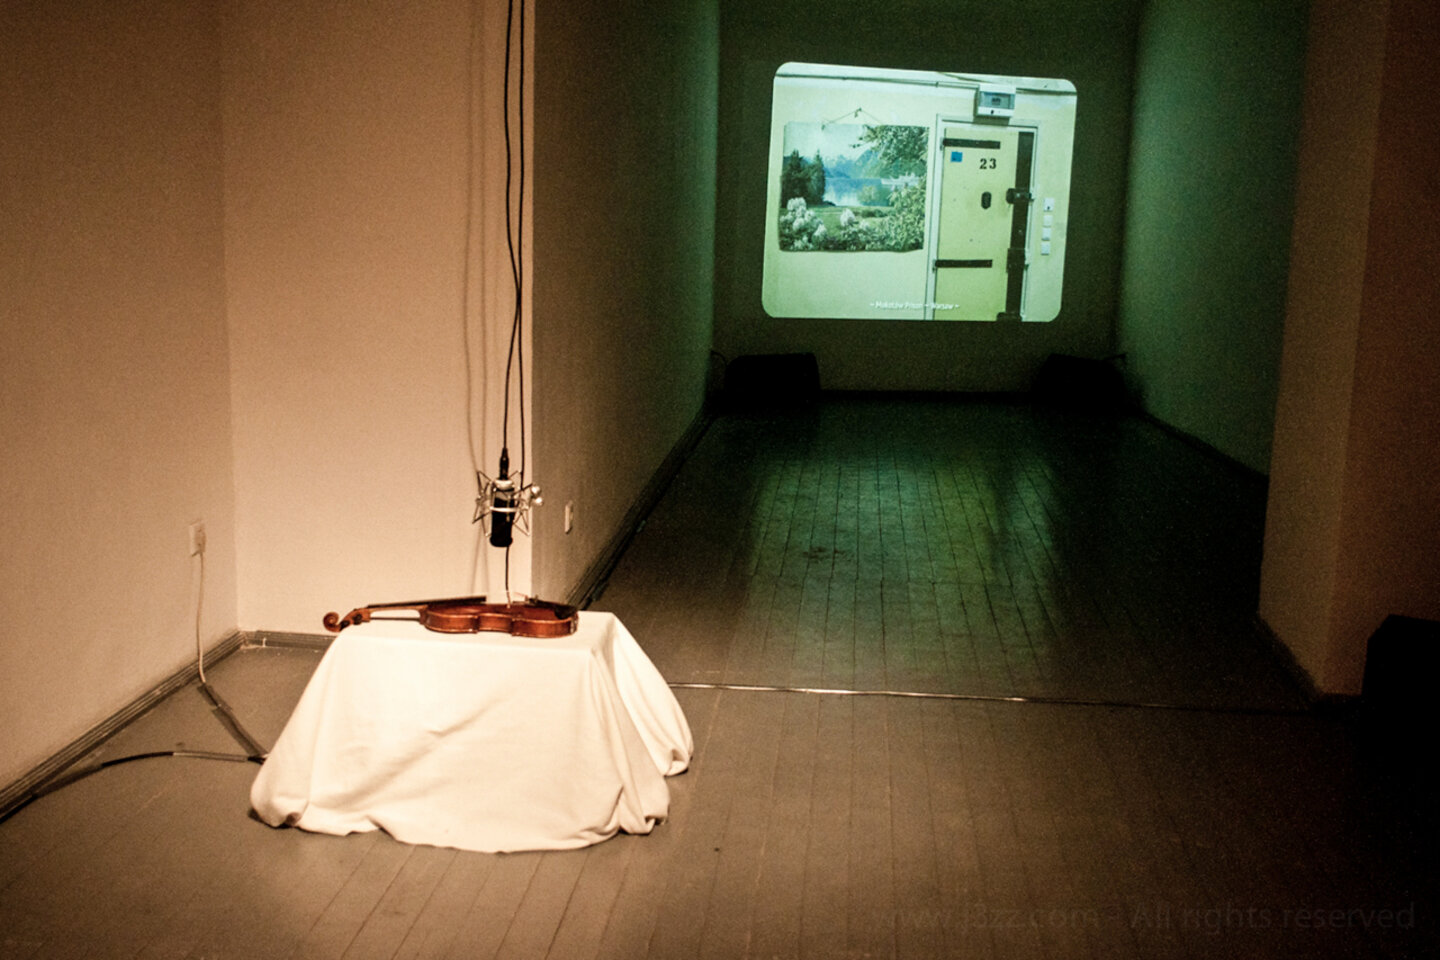
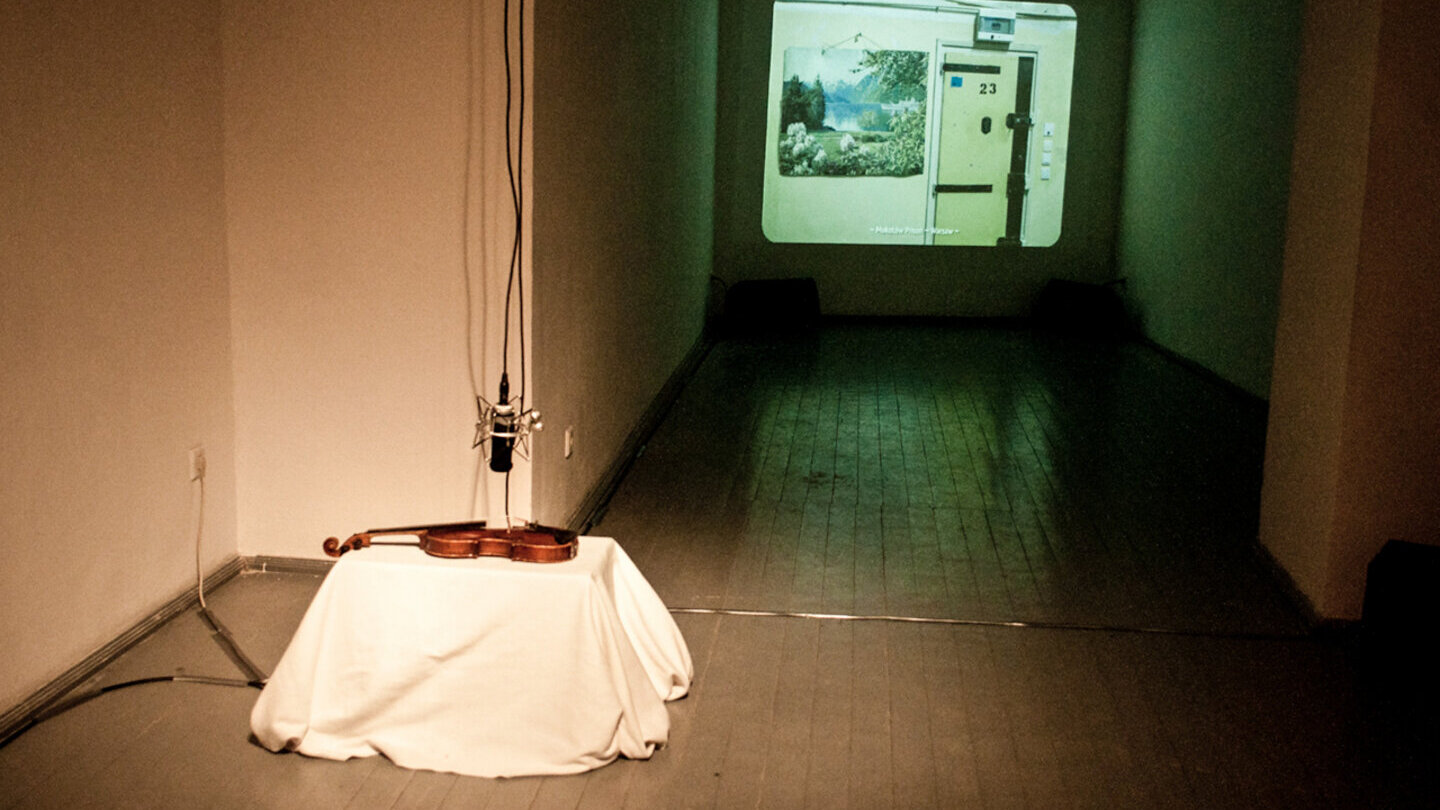
update park in progress inst work

diff --git a/_portfolio/2014-09-29-inst-park-in-progress.md b/_portfolio/2014-09-29-inst-park-in-progress.md
@@ -6,9 +6,9 @@ title: "PARK IN PROGRESS"
 work_id: park-in-progress
 hero_image: true
 abstract: |
-  A harmony of body and sound in the heart of Nicosia.
+  A multichannel spatial audio installation merging 16 speakers with live circus performance in Nicosia's Municipal Gardens.
 description: |
-  For this project, the artist created an outdoor spatial audio installation featuring 16 speakers following a residency period. During the residency, J3ZZ "established a catalogue of sounds produced by human body, creating a vocabulary of sounds." The installation functioned as "a place where the imaginary vision of the performer meet Nicosia's reality." A circus performer and her dog participated in the opening performance alongside the artist.
+  For this project, the artist created an immersive outdoor spatial audio installation featuring 16 speakers positioned throughout the Municipal Gardens. During a residency period in Nicosia, J3ZZ developed a unique sound vocabulary by recording and capturing sounds produced exclusively by the human body. The 16-speaker installation, processed through Ableton Live, became the sonic backdrop for a groundbreaking performance merging circus arts and sound art. Trapeze artist Audrey Louwet from Compagnie Azeïn performed with her dog Eran, creating a visceral dialogue between aerial movement, sound, and the urban landscape at the edge of Nicosia's UN buffer zone.
 category: installations
 commissioned: false
 image: /assets/works/2014-09-29-inst-park-in-progress/thumbnail.jpg
@@ -82,24 +82,30 @@ sections:
 
   - type: description
 
+  - type: hero-image
+    image: /assets/works/2014-09-29-inst-park-in-progress/park-in-progress-gallery13_800w.jpg
 
   - type: text
     title: ""
     content: |
       September 29 - October 5, 2014, Nicosia, Cyprus
-      Within the historically rich setting of the UN buffer zone in Nicosia, Cyprus, "Park in Progress" emerged as a celebration of the fusion between bodily movement and the sound universe. In 2014, this unique artistic event saw the collaboration between J3ZZ, an innovative musician residing in Budapest, and Audrey Louwet, a trapeze artist from the Azeïn company, creating an unforgettable circus and musical experience within an immersive multichannel audio installation.
 
-      Conceived after an artistic residency focused on capturing a catalog of sounds produced exclusively by the human body, this installation established a unique sound vocabulary, serving as the backdrop for a performance that defies conventions. The recordings, meticulously assembled to create a captivating soundtrack, formed the foundation for a bold exploration of bodily and sonic expression, where every movement and note played resonated with the intimate and collective spaces of our being.
+      **Park in Progress** is a nomadic mobility program initiated by the Pépinières Européennes pour Jeunes Artistes, supported by the European Commission's Culture programme. The program brings together young artists and cultural professionals working collaboratively across transdisciplinary practice — bringing circus, performance, music, visual art, and technology into dialogue. The 11th edition took place in Nicosia during the "Nuit Européenne de la Jeune Création" (European Night of Young Creation).
 
-      Audrey Louwet's performance, accompanied by the mesmerizing music of J3ZZ, transformed the outdoor space of Nicosia into a living theater, where the reality of the city blended with the artists' imagination. This collaboration not only highlighted the fluidity and grace of the trapeze artist but also revealed the evocative power of the sounds generated by our bodies, offering the audience a total immersion into a world where sound art and movement converge.
+      Within the historically rich setting of the Municipal Gardens, near Nicosia's UN buffer zone, this unique artistic intervention emerged as a celebration of the fusion between bodily movement and the spatial sound universe. The collaboration between J3ZZ (sound artist, composer) and Audrey Louwet (trapeze artist, Compagnie Azeïn) created an unforgettable evening where circus arts and immersive audio met in unprecedented ways.
 
-      "Park in Progress," realized as part of the 11th edition in collaboration with the European Pépinières for Young Artists, embodied the spirit of discovery and innovation. This initiative not only enriched the cultural landscape of Nicosia but also posed pertinent questions about our interaction with the urban environment, the ability of art to transform ordinary spaces into places of creativity and exchange, and the role of the audience in the activation and reception of the artwork.
+      The 16-speaker spatial audio installation was conceived following an intensive residency period during which J3ZZ recorded and developed a vocabulary of sounds produced exclusively by the human body — breath, movement, heartbeat, and physical effort transformed into a nuanced sonic palette. These recordings, meticulously processed through Ableton Live, formed the foundation of the installation: speakers positioned throughout the gardens created an immersive soundscape that responded to and accompanied the performance.
 
-      Through its multidisciplinary approach and successful collaboration, "Park in Progress" left an indelible mark on the public and the international art scene, proving once again that the union of artistic disciplines can open new horizons of expression and perception.
+      Audrey Louwet's aerial performance, executed with her dog Eran, transformed the outdoor space into a living theater. The trapeze artist's movements through space — suspended, dynamic, graceful — engaged in direct sonic dialogue with J3ZZ's body-derived soundscape. This was not accompaniment, but rather a mutual conversation: the body in motion generating sound, the sound shaping perception of movement. The audience experienced not a performance watched from a distance, but an immersive environment in which sound, movement, and place merged.
+
+      This collaboration exemplified Park in Progress's core mission: to demonstrate that transdisciplinary artistic approaches open new horizons of expression and perception. By bringing together circus acrobatics, electronic music, spatial audio design, and site-specific performance, the work posed essential questions about how art can activate and transform public spaces, and how diverse artistic practices can create entirely new forms of experience and meaning.
 
   - type: image-grid
     columns: 3
     images:
+      - /assets/works/2014-09-29-inst-park-in-progress/park-in-progress-gallery10_1440w.jpg
+      - /assets/works/2014-09-29-inst-park-in-progress/park-in-progress-gallery11_1440w.jpg
+      - /assets/works/2014-09-29-inst-park-in-progress/park-in-progress-gallery12_1440w.jpg      
       - /assets/works/2014-09-29-inst-park-in-progress/park-in-progress-gallery01_1440w.jpg
       - /assets/works/2014-09-29-inst-park-in-progress/park-in-progress-gallery02_1440w.jpg
       - /assets/works/2014-09-29-inst-park-in-progress/park-in-progress-gallery03_1440w.jpg
@@ -109,6 +115,7 @@ sections:
       - /assets/works/2014-09-29-inst-park-in-progress/park-in-progress-gallery07_1440w.jpg
       - /assets/works/2014-09-29-inst-park-in-progress/park-in-progress-gallery08_2550w.jpg
       - /assets/works/2014-09-29-inst-park-in-progress/park-in-progress-gallery09_2550w.jpg
+
     
   - type: linked-events
 